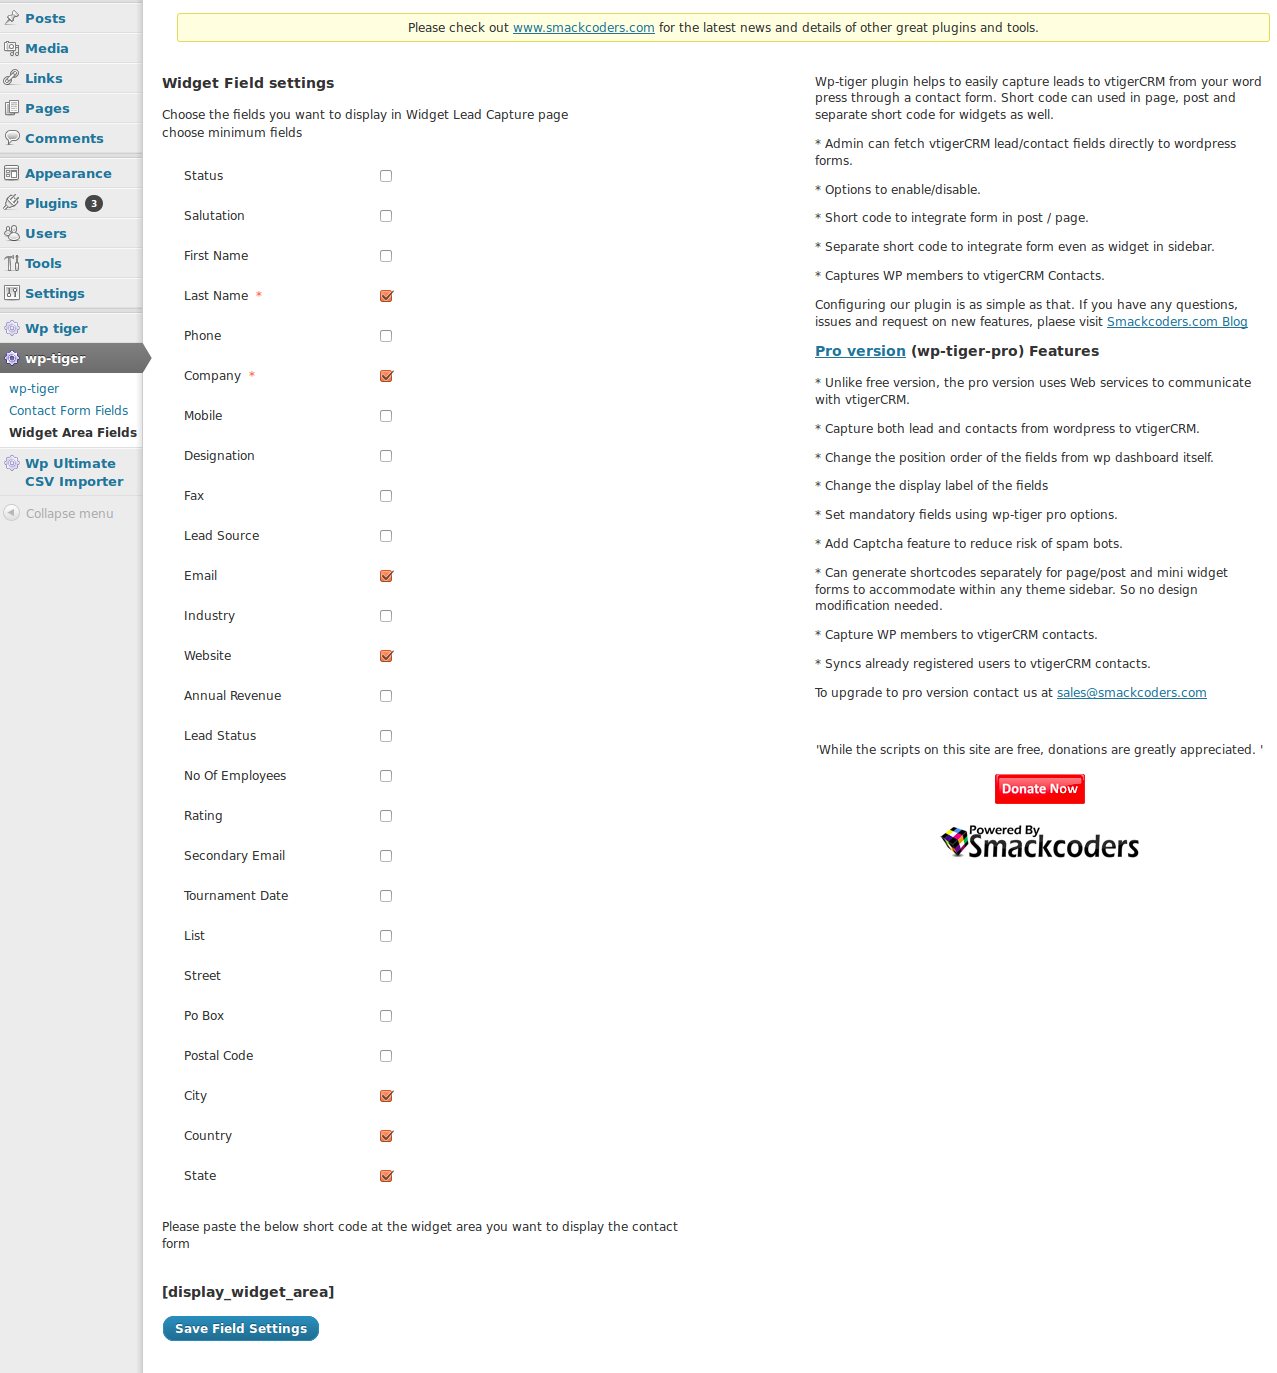
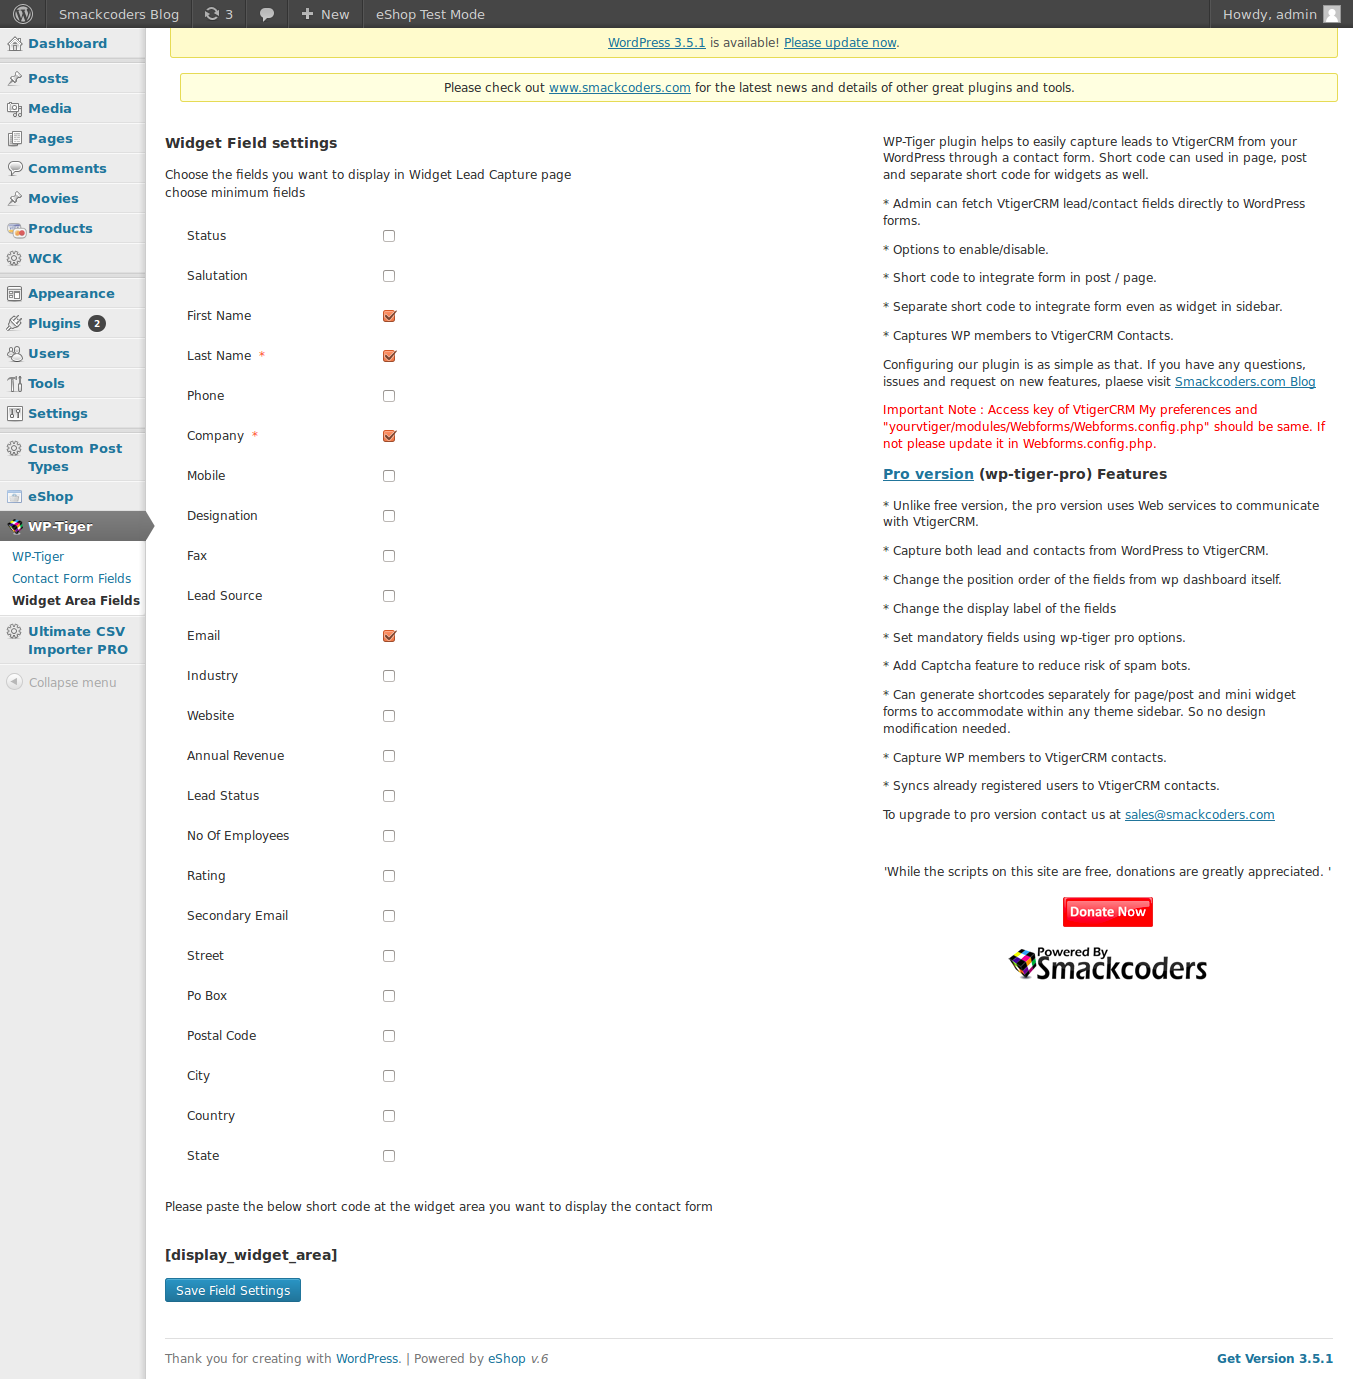
Stable version 2.5 features added
git-svn-id: https://plugins.svn.wordpress.org/wp-tiger/trunk@676372 b8457f37-d9ea-0310-8a92-e5e31aec5664

diff --git a/js/smack-vtlc-scripts.js b/js/smack-vtlc-scripts.js
@@ -17,7 +17,7 @@ function captureAlreadyRegisteredUsersWpTiger()
 	document.getElementById('please-upgrade').style.fontSize = "14px";
 	document.getElementById('please-upgrade').style.fontFamily = "Sans Serif";
 	document.getElementById('please-upgrade').style.color = "red";
-	document.getElementById('please-upgrade').innerHTML = "Please Upgrade to wp-tiger-pro for Sync feature";
+	document.getElementById('please-upgrade').innerHTML = "Please Upgrade to WP-Tiger-Pro for Sync feature";
 }
 
 function testDatabaseCredentials(siteurl)
@@ -35,8 +35,9 @@ function testDatabaseCredentials(siteurl)
                 success: function(response){
        			if(response == 'Success')
 			{
+				document.getElementById('smack-database-test-results').style.fontWeight = "bold";
 				document.getElementById('smack-database-test-results').style.color = "green";
-				document.getElementById('smack-database-test-results').innerHTML = "Database Credentials are ok";
+				document.getElementById('smack-database-test-results').innerHTML = "Database connected successfully";
 			}
 			else
 			{

diff --git a/css/smack-vtlc-css.css b/css/smack-vtlc-css.css
@@ -1,6 +1,6 @@
 td.smack_settings_td_label
 {
-	width:150px;
+	width:190px;
 }
 
 input.smack_settings_input_text

diff --git a/smack-vtlc-shortcodes.php b/smack-vtlc-shortcodes.php
@@ -27,6 +27,39 @@ $action=trim($config['url'], "/").'/modules/Webforms/post.php';
 $content = "<form id='contactform' name='contactform' method='post'>";
 //$content = "<form id='contactform' name='contactform' method='post' action='".$action."'>";
 $content.= "<table>";
+// Success message Added by Fredrick Marks
+if($_REQUEST['page_contactform'])
+{
+        extract($_POST);
+
+        foreach($_POST as $field => $value)
+        {
+                $post_fields[$field]=urlencode($value);
+        }
+        if(!empty( $config['appkey'] )){
+                $post_fields['appKey'] = $config['appkey'];
+        }
+        foreach($post_fields as $key=>$value) { $fields_string .= $key.'='.$value.'&'; }
+        rtrim($fields_string,'&');
+
+        $url = $action;
+        $ch  = curl_init ($url);
+        curl_setopt($ch, CURLOPT_SSL_VERIFYHOST, 0);
+        curl_setopt($ch, CURLOPT_POST,1);
+        curl_setopt($ch, CURLOPT_POSTFIELDS, $fields_string);
+        curl_setopt($ch, CURLOPT_RETURNTRANSFER, 1);
+        $data = curl_exec ($ch);
+        curl_close ($ch);
+        if($data) {
+                //$content.= $data;   //remove the comment to see the result from vtiger.
+                if(preg_match("/$module entry is added to vtiger CRM./",$data)) {
+                        $content.= "<tr><td colspan='2' style='text-align:center;color:green;font-size: 1.2em;font-weight: bold;'>Thank you for submitting</td></tr>";
+                } else{
+                        $content.= "<tr><td colspan='2' style='text-align:center;color:red;font-size: 1.2em;font-weight: bold;'>Submitting Failed</td></tr>";
+                }
+        }
+
+}// Fredrick Marks Code ends here
 	if( is_array( $config_field['fieldlist'] ) ) foreach ($selectedFields as $field) {
 
 		$content1="<p>";
@@ -46,44 +79,12 @@ $content.=$content1;
 	}
 	$content.="<tr><td></td><td>";
 	$content.="<p>";
-	$content.="<input type='submit' value='Submit' id='submit' name='submit'></p><span style='font-size:11px;'>Powered by <a target='_blank' href='https://code.smackcoders.com/wptiger'>Wp-Tiger</a></td></tr></table>";
+	$content.="<input type='submit' value='Submit' id='submit' name='submit'></p><span style='font-size:11px;'>Form generated by <a target='_blank' href='http://www.smackcoders.com/wptiger.html'>WP-Tiger</a></td></tr></table>";
         $content.="<input type='hidden' value='contactform' name='page_contactform'>";
 	$content.="<input type='hidden' value='Leads' name='moduleName' />
 </form>";
 //return $content;
 
-if($_REQUEST['page_contactform'])
-{
-	extract($_POST);
-
-	foreach($_POST as $field => $value)
-	{
-		$post_fields[$field]=urlencode($value);
-	}
-	if(!empty( $config['appkey'] )){
-		$post_fields['appKey'] = $config['appkey'];	
-	}
-	foreach($post_fields as $key=>$value) { $fields_string .= $key.'='.$value.'&'; }
-	rtrim($fields_string,'&');
-
-	$url = $action;
-	$ch  = curl_init ($url);
-	curl_setopt($ch, CURLOPT_SSL_VERIFYHOST, 0);
-	curl_setopt($ch, CURLOPT_POST,1);
-	curl_setopt($ch, CURLOPT_POSTFIELDS, $fields_string);
-	curl_setopt($ch, CURLOPT_RETURNTRANSFER, 1);
-	$data = curl_exec ($ch);
-	curl_close ($ch);
-	if($data) {
-		//$content.= $data;   //remove the comment to see the result from vtiger.
-		if(preg_match("/$module entry is added to vtiger CRM./",$data)) {
-			$content.= "successful";
-		} else{
-			$content.= "failed";
-		}
-	}
-
-}
 return $content;
 }
 
@@ -104,31 +105,7 @@ if(!empty($config['hostname']) && !empty($config['dbuser'])){
 $action=trim($config['url'], "/").'/modules/Webforms/post.php';
 $content = "<form id='contactform' method='post'>";
 $content.= "<table>";
-	if( is_array( $config_widget_field['widgetfieldlist'] ) ) foreach ($selectedFields as $field) {
-
-		$content1="<p >";
-		$content1.="<tr>";
-		$content1.="<td>";
-		$content1.="<label for='".$field->fieldname."'>".$field->fieldlabel."</label>";
-		$typeofdata = explode('~', $field->typeofdata);
-		if( $typeofdata[1] == 'M' ){
-		$content1.="<span style='color:red;'>*</span>";
-		}
-		$content1.="</td><td>";
-		$content1.="<input type='hidden' value='".$typeofdata[1]."' id='".$field->fieldname."_type'>";
-		$content1.="<input type='text' class='wp-tiger-widget-area-text' size='20' value='' name='".$field->fieldname."' id='".$field->fieldname."'></p>";
-		$content1.="</td></tr>";
-$content.=$content1;
-	}
-	$content.="<tr><td></td><td>";
-	$content.="<p>";
-	$content.="<input type='submit' class='wp-tiger-widget-area-submit' value='Submit' id='submit' name='submit'></p></td></tr>";
-	$content.="<tr><td></td><td style='font-size:9px;'>Powered by <a target='_blank' href='https://code.smackcoders.com/wptiger'>Wp-Tiger</a></td></tr></table>";
-	$content.="<input type='hidden' value='contactform' name='widget_contactform'>";
-	$content.="<input type='hidden' value='Leads' name='moduleName'/>
-</form>";
-
-//echo $content;
+// Success message for widget area -- Code added by Fredrick Marks
 if($_REQUEST['widget_contactform'])
 {
         extract($_POST);
@@ -152,15 +129,40 @@ if($_REQUEST['widget_contactform'])
         $data = curl_exec ($ch);
         curl_close ($ch);
         if($data) {
-		//$content.= $data;   //remove the comment to see the result from vtiger.
+                //$content.= $data;   //remove the comment to see the result from vtiger.
                 if(preg_match("/$module entry is added to vtiger CRM./",$data)) {
-                        $content.= "successful";
+                        $content.= "<tr><td colspan='2' style='text-align:center;color:green;font-size: 1.2em;font-weight: bold;'>Thank you for submitting</td></tr>";
                 } else{
-                        $content.= "failed";
+                        $content.= "<tr><td colspan='2' style='text-align:center;color:red;font-size: 1.2em;font-weight: bold;'>Submitting Failed</td></tr>";
                 }
         }
 
-}
+} // Fredrick Marks Code ends here
+	if( is_array( $config_widget_field['widgetfieldlist'] ) ) foreach ($selectedFields as $field) {
+
+		$content1="<p >";
+		$content1.="<tr>";
+		$content1.="<td>";
+		$content1.="<label for='".$field->fieldname."'>".$field->fieldlabel."</label>";
+		$typeofdata = explode('~', $field->typeofdata);
+		if( $typeofdata[1] == 'M' ){
+		$content1.="<span style='color:red;'>*</span>";
+		}
+		$content1.="</td><td>";
+		$content1.="<input type='hidden' value='".$typeofdata[1]."' id='".$field->fieldname."_type'>";
+		$content1.="<input type='text' class='wp-tiger-widget-area-text' size='20' value='' name='".$field->fieldname."' id='".$field->fieldname."'></p>";
+		$content1.="</td></tr>";
+$content.=$content1;
+	}
+	$content.="<tr><td></td><td>";
+	$content.="<p>";
+	$content.="<input type='submit' class='wp-tiger-widget-area-submit' value='Submit' id='submit' name='submit'></p></td></tr>";
+	$content.="<tr><td></td><td style='font-size:9px;'>Form generated by <a target='_blank' href='http://www.smackcoders.com/wptiger.html'>WP-Tiger</a></td></tr></table>";
+	$content.="<input type='hidden' value='contactform' name='widget_contactform'>";
+	$content.="<input type='hidden' value='Leads' name='moduleName'/>
+</form>";
+
+//echo $content;
 return $content;
 
 }

diff --git a/wp-tiger.php b/wp-tiger.php
@@ -3,7 +3,7 @@
 Plugin Name: WordPress VtigerCRM Lead/Contact Capture
 Plugin URI: http://www.smackcoders.com
 Description: A plugin that captures the lead for VtigerCRM
-Version: 2.1.0
+Version: 2.5.0
 Author: smackcoders.com
 Author URI: http://www.smackcoders.com
 */
@@ -34,9 +34,10 @@ require_once 'get-vt-fields.php';
 require_once 'widget-fields.php';
 require_once 'smack-vtlc-shortcodes.php';
 require_once 'forms.php';
-function setup_theme_admin_menus() {  
-	add_menu_page('Plugin settings', 'wp-tiger', 'manage_options',  
-	       'plugin_settings', 'plugin_settings_page');
+function setup_theme_admin_menus() { 
+	$contentUrl = WP_CONTENT_URL; 
+	add_menu_page('Plugin settings', 'WP-Tiger', 'manage_options',  
+	       'plugin_settings', 'plugin_settings_page', "$contentUrl/plugins/wp-tiger/images/icon.png");
 	add_submenu_page('plugin_settings',  
 	       'Contact Form Fields', 'Contact Form Fields', 'manage_options',  
 	       'vtiger_db_fields', 'get_Vtiger_DB_Fields');
@@ -54,7 +55,7 @@ function rightSideContent()
 {
 $contentUrl = WP_CONTENT_URL;
 $content = "<div class='right-side-content'>
-<p>Wp-tiger plugin helps to easily capture leads to VtigerCRM from your WordPress through a contact form. Short code can used in page, post and separate short code for widgets as well.</p> 
+<p>WP-Tiger plugin helps to easily capture leads to VtigerCRM from your WordPress through a contact form. Short code can used in page, post and separate short code for widgets as well.</p> 
 <p>
 *    Admin can fetch VtigerCRM lead/contact fields directly to WordPress forms.
 </p>
@@ -70,13 +71,13 @@ $content = "<div class='right-side-content'>
 <p>
 *    Captures WP members to VtigerCRM Contacts.
 </p>
-<p>Configuring our plugin is as simple as that. If you have any questions, issues and request on new features, plaese visit <a href='http://www.smackcoders.com/category/free-wordpress-plugins.html' target='_blank'>Smackcoders.com Blog </a></p>
+<p>Configuring our plugin is as simple as that. If you have any questions, issues and request on new features, plaese visit <a href='http://www.smackcoders.com/blog/category/free-wordpress-plugins' target='_blank'>Smackcoders.com blog </a></p>
 
 <p style = 'color:#FC0000;'>
  Important Note : Access key of VtigerCRM My preferences and \"yourvtiger/modules/Webforms/Webforms.config.php\" should be same. If not please update it in Webforms.config.php.
 </p>
 <div>
-<p style='font-size:14px; font-weight:bold; '><a href='http://store.smackcoders.com/connectors/wp-vtiger-pro.html'>Pro version</a> (wp-tiger-pro) Features</p>
+<p style='font-size:14px; font-weight:bold; '><a href='http://www.smackcoders.com/connectors/wp-vtiger-pro.html' target='_blank'>Pro version</a> (wp-tiger-pro) Features</p>
 
 <p>*    Unlike free version, the pro version uses Web services to communicate with VtigerCRM.</p>
 <p>*    Capture both lead and contacts from WordPress to VtigerCRM.</p>
@@ -102,7 +103,7 @@ return $content;
 
 function topContent()
 {
-	return '<div style="background-color: #FFFFE0;border-color: #E6DB55;border-radius: 3px 3px 3px 3px;border-style: solid;border-width: 1px;margin: 5px 15px 2px; margin-top:15px;padding: 5px;text-align:center"> Please check out <a href="http://smackcoders.com/category/free-wordpress-plugins.html" target="_blank">www.smackcoders.com</a> for the latest news and details of other great plugins and tools. </div><br/>';
+	return '<div style="background-color: #FFFFE0;border-color: #E6DB55;border-radius: 3px 3px 3px 3px;border-style: solid;border-width: 1px;margin: 5px 15px 2px; margin-top:15px;padding: 5px;text-align:center"> Please check out <a href="http://www.smackcoders.com/blog/category/free-wordpress-plugins" target="_blank">www.smackcoders.com</a> for the latest news and details of other great plugins and tools. </div><br/>';
 }
 function wp_tiger_capture_registering_users($user_id)
 {
@@ -138,9 +139,9 @@ function wp_tiger_capture_registering_users($user_id)
 
 		if($data) {
 		        if(preg_match("/$module entry is added to vtiger CRM./",$data)) {
-		                $content= "successful";
+		                $content= "<span style='color:green'>Thank you for submitting</span>";
 		        } else{
-		                $content= "failed";
+		                $content= "<span style='color:red'>Submitting Failed</span>";
 		        }
 		}
 	// firstname  lastname  email

diff --git a/forms.php b/forms.php
@@ -37,13 +37,13 @@ else
 ?>
 		<input type="hidden" name="page_options" value="smack_vtlc_settings" />
 		<input type="hidden" name="smack_vtlc_hidden" value="1" />
-<h2>Vtiger Contact Form Settings</h2><br/>
-<h3>DB Settings</h3>
+<h2>VtigerCRM Contact Form Settings</h2><br/>
+<h3>Database settings</h3>
 <div id="dbfields">
 	<table>
 		<tr>
 			<td class="smack_settings_smack_settings_td_label" >
-				<label>Database Host</label>
+				<label>Database hostname</label>
 			</td>
 			<td>
 				<input class="smack_settings_input_text" type="text" id="hostname" name="hostname" value="<?php echo $config['hostname'];?>"/>
@@ -51,7 +51,7 @@ else
 		</tr>
 		<tr>
 			<td class="smack_settings_td_label">
-				<label>Database User</label>
+				<label>Database username</label>
 			</td>
 			<td>
 				<input class="smack_settings_input_text" type="text" id="dbuser" name="dbuser" value="<?php echo $config['dbuser'];?>"/>
@@ -59,7 +59,7 @@ else
 		</tr>
 		<tr>
 			<td class="smack_settings_td_label">
-				<label>Database Password</label>
+				<label>Database password</label>
 			</td>
 			<td>
 				<input class="smack_settings_input_text" type="text" id="dbpass" name="dbpass" value="<?php echo $config['dbpass'];?>"/><br/>
@@ -67,7 +67,7 @@ else
 		</tr>
 		<tr>
 			<td class="smack_settings_td_label">
-				<label>Database Name</label>
+				<label>Database name</label>
 			</td>
 			<td>
 				<input class="smack_settings_input_text" type="text" id="dbname" name="dbname" value="<?php echo $config['dbname'];?>"/>
@@ -78,7 +78,7 @@ else
 <table>
 	<tr>
 		<td class="smack_settings_td_label">
-			<input type="button" class="button" value="Test Database Credentials" onclick="testDatabaseCredentials('<?php echo $siteurl;?>');"/>
+			<input type="button" class="button" value="Test database connection" onclick="testDatabaseCredentials('<?php echo $siteurl;?>');"/>
 		</td>
 		<td id="smack-database-test-results">
 			
@@ -86,7 +86,7 @@ else
 	</tr>
 
 </table>
-<h3>Vtiger Settings</h3>
+<h3>VtigerCRM settings</h3>
 <div id=vtigersettings>
 	<table>
 		<tr>
@@ -107,11 +107,11 @@ else
 		</tr>
 	</table>
 <br/>
-<h3>Capturing Wordpress users</h3>
+<h3>Capturing WordPress users</h3>
 <table>
 	<tr>
 		<td><br/>
-			<label>Do you need to capture the registering users : </label>
+			<label><div style='float:left'>Do you need to capture the registering users</div><div style='float:right;padding-left:5px;'> :</div></label>
 		</td>
 		<td><br/>
 			<input type='checkbox' class='smack-vtiger-settings-user-capture' name='wp_tiger_smack_user_capture' id='wp_tiger_smack_user_capture' 
@@ -126,7 +126,7 @@ if($config['wp_tiger_smack_user_capture']=='on')
 	</tr>
 	<tr>
 		<td>
-			Sync WP members to vTiger Contacts:
+			<div style='float:left'>Sync WP members to VtigerCRM contacts</div><div style='float:right;padding-left:5px;'> :</div>
 		</td>
 		<td>
 			<input type="button" value="<?php _e('Sync');?>" class="button-secondary submit-add-to-menu" onclick="captureAlreadyRegisteredUsersWpTiger();"/>
@@ -139,7 +139,7 @@ if($config['wp_tiger_smack_user_capture']=='on')
 </div>
 <input type="hidden" name="posted" value="<?php echo 'posted';?>">
 		<p class="submit">
-			<input type="submit" value="<?php _e('Save Vtiger Settings');?>" class="button-primary"/>
+			<input type="submit" value="<?php _e('Save Settings');?>" class="button-primary"/>
 		</p>
 		<div id="vt_fields_container">
 		</div>
